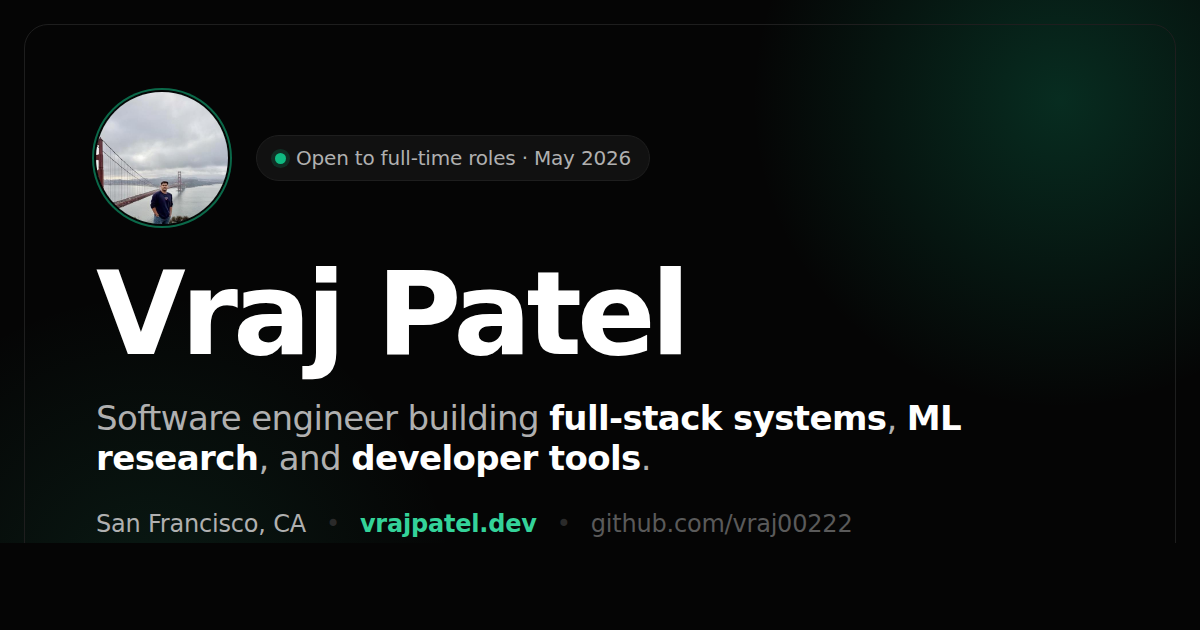
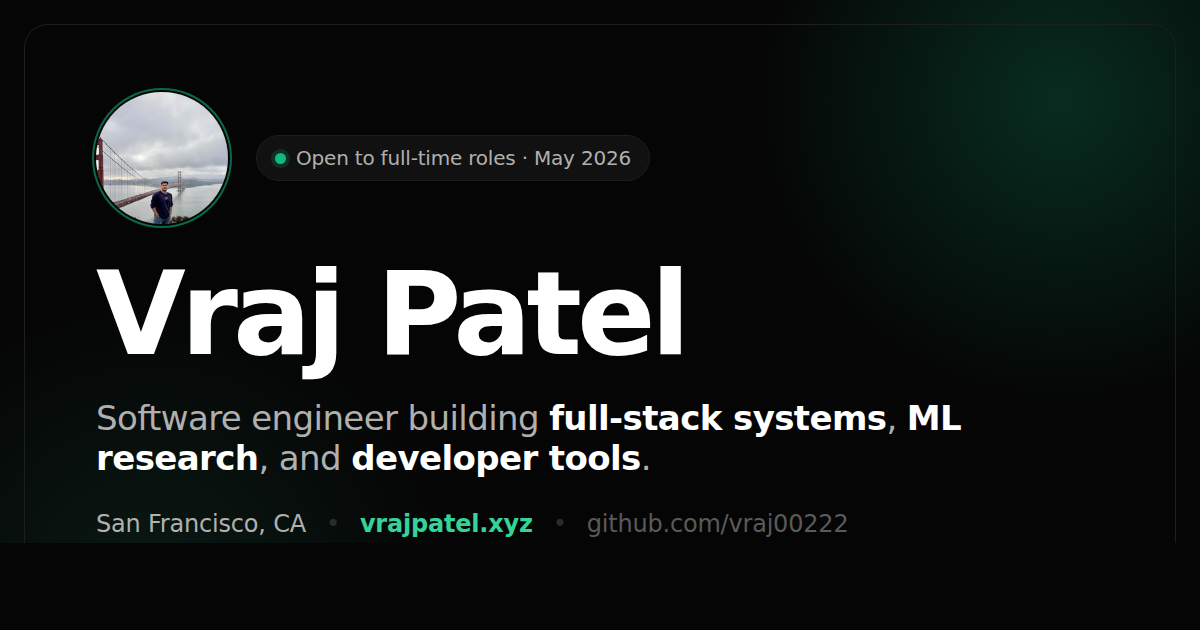
Point social/SEO absolute URLs at vrajpatel.xyz
The og:image was pointing at https://vrajpatel.dev/og-image.png, which
returns a 308 redirect (to www.vrajpatel.dev). Social scrapers like
WhatsApp don't follow redirects for og:image, so no preview image showed.
vrajpatel.xyz serves the image with a direct 200, so switch og:image,
twitter:image, og:url, canonical, the JSON-LD url/image, the OG card text,
and the README live link to vrajpatel.xyz.

Claude-Session: https://claude.ai/code/session_01H3Ghnm4amziGJTzZZyoFaw

Changed region(s): [[0.4008, 0.8143, 0.7092, 0.8444]]

diff --git a/index.html b/index.html
@@ -22,18 +22,18 @@
     <meta property="og:description" content="Software engineer building systems that scale, research that matters, and interfaces worth using." />
     <meta property="og:type" content="website" />
     <meta property="og:site_name" content="Vraj Patel" />
-    <meta property="og:url" content="https://vrajpatel.dev/" />
-    <meta property="og:image" content="https://vrajpatel.dev/og-image.png" />
+    <meta property="og:url" content="https://vrajpatel.xyz/" />
+    <meta property="og:image" content="https://vrajpatel.xyz/og-image.png" />
     <meta property="og:image:width" content="1200" />
     <meta property="og:image:height" content="630" />
     <meta property="og:image:alt" content="Vraj Patel — software engineer building full-stack systems, ML research, and developer tools." />
     <meta name="twitter:card" content="summary_large_image" />
     <meta name="twitter:title" content="Vraj Patel — Software Engineer" />
     <meta name="twitter:description" content="Software engineer building systems that scale, research that matters, and interfaces worth using." />
-    <meta name="twitter:image" content="https://vrajpatel.dev/og-image.png" />
+    <meta name="twitter:image" content="https://vrajpatel.xyz/og-image.png" />
     <meta name="twitter:image:alt" content="Vraj Patel — software engineer building full-stack systems, ML research, and developer tools." />
     <meta name="twitter:creator" content="@vrjpatel_" />
-    <link rel="canonical" href="https://vrajpatel.dev/" />
+    <link rel="canonical" href="https://vrajpatel.xyz/" />
     <meta name="theme-color" content="#fafafa" media="(prefers-color-scheme: light)" />
     <meta name="theme-color" content="#050505" media="(prefers-color-scheme: dark)" />
     <link rel="preconnect" href="https://api.fontshare.com" />
@@ -43,8 +43,8 @@
         "@context": "https://schema.org",
         "@type": "Person",
         "name": "Vraj Patel",
-        "url": "https://vrajpatel.dev",
-        "image": "https://vrajpatel.dev/og-image.png",
+        "url": "https://vrajpatel.xyz",
+        "image": "https://vrajpatel.xyz/og-image.png",
         "jobTitle": "Software Engineer",
         "address": {
           "@type": "PostalAddress",

diff --git a/README.md b/README.md
@@ -4,7 +4,7 @@ My personal portfolio and blog — a fast, single-page site with a dark/light
 theme, live GitHub activity, and long-form writing on the things I build and
 break.
 
-**Live:** https://vrajpatel.dev
+**Live:** https://vrajpatel.xyz
 
 ## Stack
 
